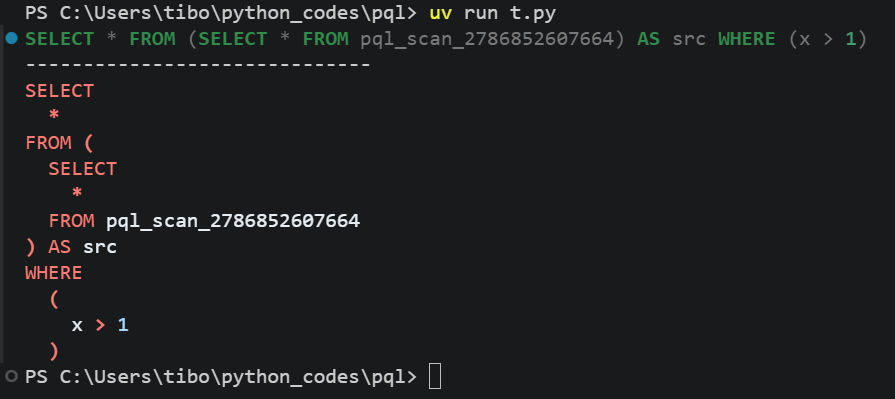
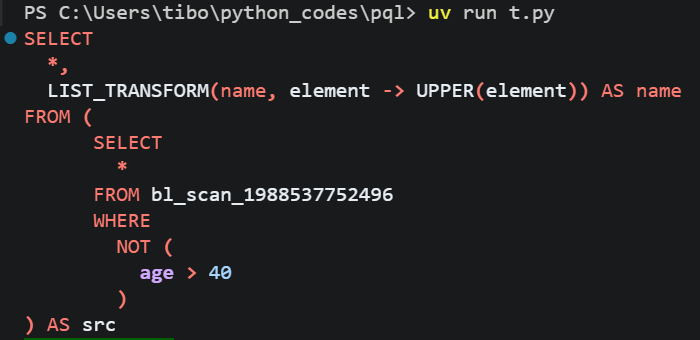
chore: updated readme

diff --git a/README.md b/README.md
@@ -35,6 +35,20 @@ The two main pillars of `belugas` are:
 - Query introspections, with syntax highlighted SQL in your terminal with +20 color themes, sql formatting, AST inspection, query plan inspection, and more.
 - A `meta` module with all the table and metadata functions provided by `DuckDB` to inspect your database schema, list functions, and more.
 
+## How it works
+
+`belugas` compiles `LazyFrame` and `Expr` operations to SQL queries that are executed by `DuckDB`.
+
+- Each `LazyFrame` operation add a new node to the IR query graph. They are fully lazy, meaning that the arguments are just stored as is in the nodes.
+
+- Each `Expr` create a sqlglot AST node that is stored in the `Expr` object.
+
+When the query is executed by any operation that requires a result (schema inspection, dataframe conversion, etc...), the IR graph is traversed, transformed in sqlglot AST nodes who are then compiled together into a single sqlglot AST tree.
+
+This tree is then transformed into a SQL query, which is then executed by `DuckDB`.
+
+This three step process allows `belugas` to concile the difference and advantages of both dataframe API and SQL queries.
+
 ## Quick Start
 
 ### Installation
@@ -84,25 +98,45 @@ Output:
 ### Inspect the generated SQL query with syntax highlighting and  pretty formatting
 
 ```python
+import polars as pl
+
 import belugas as bl
 
-query = bl.LazyFrame({"x": [1, 2, 3]}).filter(bl.col("x").gt(1))
+data = {
+    "name": ["paul", "sophie", "john"],
+    "age": [25, 30, 35],
+    "city": ["paris", "paris", "geneva"],
+}
+lf = pl.LazyFrame(data).group_by("city").agg(pl.col("age").mean().alias("age_mean"))
+query = (
+    bl
+    .LazyFrame(lf)
+    .filter(bl.col("age").gt(40).not_())
+    .with_columns(bl.col("name").list.eval(bl.element().str.to_uppercase()))
+)
 sql = query.sql_query()
-
-sql.show("friendly")
-print("---" * 10)
 sql.show(pretty=True)
+query.show_graph()
+
 ```
+
+### As SQL query with syntax highlighting and pretty formatting
 
 ![alt text](docs/sql_highlight.png)
 
-### Inspect the query graph from belugas
+### As belugas IR graph
 
-Simply print the `LazyFrame` with `rich.print` to get a nice tree visualization of the query graph, with all the expressions and their arguments.
+`show_graph` shows the query graph of the `LazyFrame` operations.
 
-This is the tree that will be forwarded to `DuckDB` for execution. It's a logical plan, before any optimization or transformation from the engine.
+This allows you to inspect data sources, and visualize the query as a tree of operations.
 
 ![alt text](docs/tree.png)
+
+### As sqlglot AST
+
+You can also pass `compiled=True` to `show_graph` to inspect the generated `sqlglot` AST after the compilation of the `LazyFrame` operations.
+
+![alt text](docs/sqlglot_ast.png)
 
 ## Dependencies
 